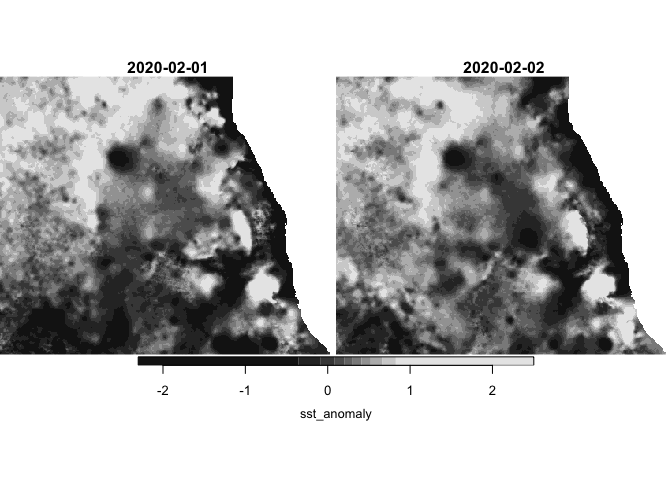
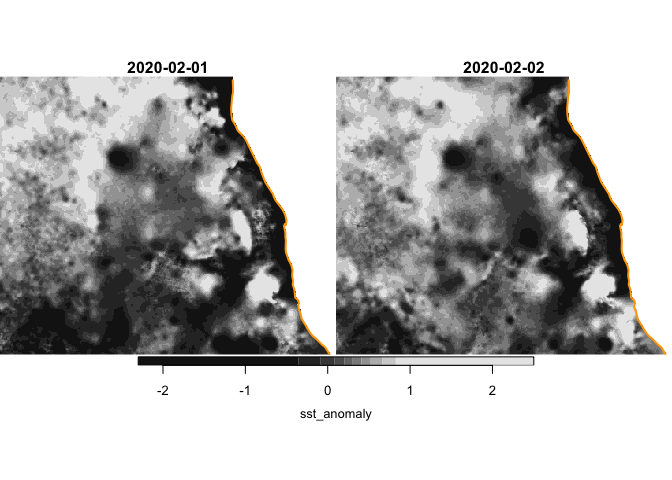
Update as per @villesci to leverage system2() stdout and stderr arguments

diff --git a/README.md b/README.md
@@ -6,7 +6,7 @@ ghrsst
 > “v0.1” (now defunct) demonstrated how you could extract point or small
 > polygons form the NetCDF. This new package is only about fetching and
 > reading data from PODAAC, not about extracting points or polygons from
-> the data. To leaner more about extraction, see the
+> the data. To learn more about extraction, see the
 > [sf](https://r-spatial.github.io/sf/) and
 > [stars](https://r-spatial.github.io/stars/) tutorials.
 
@@ -102,7 +102,6 @@ ff = ghrsst::podaac_list() |>
     ## [2] "/Users/ben/Library/CloudStorage/Dropbox/data/ghrsst/tmp/20200202090000-JPL-L4_GHRSST-SSTfnd-MUR-GLOB-v02.0-fv04.1.nc"
     ## [3] "/Users/ben/Library/CloudStorage/Dropbox/data/ghrsst/tmp/20200203090000-JPL-L4_GHRSST-SSTfnd-MUR-GLOB-v02.0-fv04.1.nc"
     ## [4] "/Users/ben/Library/CloudStorage/Dropbox/data/ghrsst/tmp/20200204090000-JPL-L4_GHRSST-SSTfnd-MUR-GLOB-v02.0-fv04.1.nc"
-    ## [5] "/Users/ben/Library/CloudStorage/Dropbox/data/ghrsst/tmp/20200205090000-JPL-L4_GHRSST-SSTfnd-MUR-GLOB-v02.0-fv04.1.nc"
 
 ## Reading the downloaded data
 
@@ -132,7 +131,7 @@ s
     ##      from   to     offset  delta refsys point x/y
     ## x       1 1701          0   0.01 WGS 84 FALSE [x]
     ## y       1 1301        -29   0.01 WGS 84 FALSE [y]
-    ## time    1    5 2020-02-01 1 days   Date    NA
+    ## time    1    4 2020-02-01 1 days   Date    NA
 
 ``` r
 coast = rnaturalearth::ne_coastline(scale = "medium", returnclass = "sf") |>
@@ -177,16 +176,16 @@ newdb = lapply(ff,
   dplyr::glimpse()
 ```
 
-    ## Rows: 10
+    ## Rows: 8
     ## Columns: 12
     ## $ date         <date> 2020-02-01, 2020-02-01, 2020-02-02, 2020-02-02, 2020-02-…
-    ## $ year         <dbl> 2020, 2020, 2020, 2020, 2020, 2020, 2020, 2020, 2020, 2020
-    ## $ month        <dbl> 2, 2, 2, 2, 2, 2, 2, 2, 2, 2
+    ## $ year         <dbl> 2020, 2020, 2020, 2020, 2020, 2020, 2020, 2020
+    ## $ month        <dbl> 2, 2, 2, 2, 2, 2, 2, 2
     ## $ time         <chr> "090000", "090000", "090000", "090000", "090000", "090000…
-    ## $ rdac         <chr> "JPL", "JPL", "JPL", "JPL", "JPL", "JPL", "JPL", "JPL", "…
+    ## $ rdac         <chr> "JPL", "JPL", "JPL", "JPL", "JPL", "JPL", "JPL", "JPL"
     ## $ level        <chr> "L4_GHRSST", "L4_GHRSST", "L4_GHRSST", "L4_GHRSST", "L4_G…
     ## $ type         <chr> "SSTfnd", "SSTfnd", "SSTfnd", "SSTfnd", "SSTfnd", "SSTfnd…
-    ## $ product      <chr> "MUR", "MUR", "MUR", "MUR", "MUR", "MUR", "MUR", "MUR", "…
+    ## $ product      <chr> "MUR", "MUR", "MUR", "MUR", "MUR", "MUR", "MUR", "MUR"
     ## $ reg          <chr> "GLOB", "GLOB", "GLOB", "GLOB", "GLOB", "GLOB", "GLOB", "…
     ## $ gds_version  <chr> "v02.0", "v02.0", "v02.0", "v02.0", "v02.0", "v02.0", "v0…
     ## $ file_version <chr> "fv04.1", "fv04.1", "fv04.1", "fv04.1", "fv04.1", "fv04.1…
@@ -217,19 +216,17 @@ db = read_database(path) |>
   print()
 ```
 
-    ## # A tibble: 10 × 12
-    ##    date        year month time   rdac  level     type  product reg   gds_version
-    ##    <date>     <dbl> <dbl> <chr>  <chr> <chr>     <chr> <chr>   <chr> <chr>      
-    ##  1 2020-02-01  2020     2 090000 JPL   L4_GHRSST SSTf… MUR     GLOB  v02.0      
-    ##  2 2020-02-01  2020     2 090000 JPL   L4_GHRSST SSTf… MUR     GLOB  v02.0      
-    ##  3 2020-02-02  2020     2 090000 JPL   L4_GHRSST SSTf… MUR     GLOB  v02.0      
-    ##  4 2020-02-02  2020     2 090000 JPL   L4_GHRSST SSTf… MUR     GLOB  v02.0      
-    ##  5 2020-02-03  2020     2 090000 JPL   L4_GHRSST SSTf… MUR     GLOB  v02.0      
-    ##  6 2020-02-03  2020     2 090000 JPL   L4_GHRSST SSTf… MUR     GLOB  v02.0      
-    ##  7 2020-02-04  2020     2 090000 JPL   L4_GHRSST SSTf… MUR     GLOB  v02.0      
-    ##  8 2020-02-04  2020     2 090000 JPL   L4_GHRSST SSTf… MUR     GLOB  v02.0      
-    ##  9 2020-02-05  2020     2 090000 JPL   L4_GHRSST SSTf… MUR     GLOB  v02.0      
-    ## 10 2020-02-05  2020     2 090000 JPL   L4_GHRSST SSTf… MUR     GLOB  v02.0      
+    ## # A tibble: 8 × 12
+    ##   date        year month time   rdac  level     type   product reg   gds_version
+    ##   <date>     <dbl> <dbl> <chr>  <chr> <chr>     <chr>  <chr>   <chr> <chr>      
+    ## 1 2020-02-01  2020     2 090000 JPL   L4_GHRSST SSTfnd MUR     GLOB  v02.0      
+    ## 2 2020-02-01  2020     2 090000 JPL   L4_GHRSST SSTfnd MUR     GLOB  v02.0      
+    ## 3 2020-02-02  2020     2 090000 JPL   L4_GHRSST SSTfnd MUR     GLOB  v02.0      
+    ## 4 2020-02-02  2020     2 090000 JPL   L4_GHRSST SSTfnd MUR     GLOB  v02.0      
+    ## 5 2020-02-03  2020     2 090000 JPL   L4_GHRSST SSTfnd MUR     GLOB  v02.0      
+    ## 6 2020-02-03  2020     2 090000 JPL   L4_GHRSST SSTfnd MUR     GLOB  v02.0      
+    ## 7 2020-02-04  2020     2 090000 JPL   L4_GHRSST SSTfnd MUR     GLOB  v02.0      
+    ## 8 2020-02-04  2020     2 090000 JPL   L4_GHRSST SSTfnd MUR     GLOB  v02.0      
     ## # ℹ 2 more variables: file_version <chr>, var <chr>
 
 #### Reading in rasters
@@ -255,7 +252,7 @@ x
     ## time    1    2 2020-02-01 1 days   Date    NA
 
 ``` r
-plot(x)
+plot(x, hook = extra_plot)
 ```
 
     ## downsample set to 3
